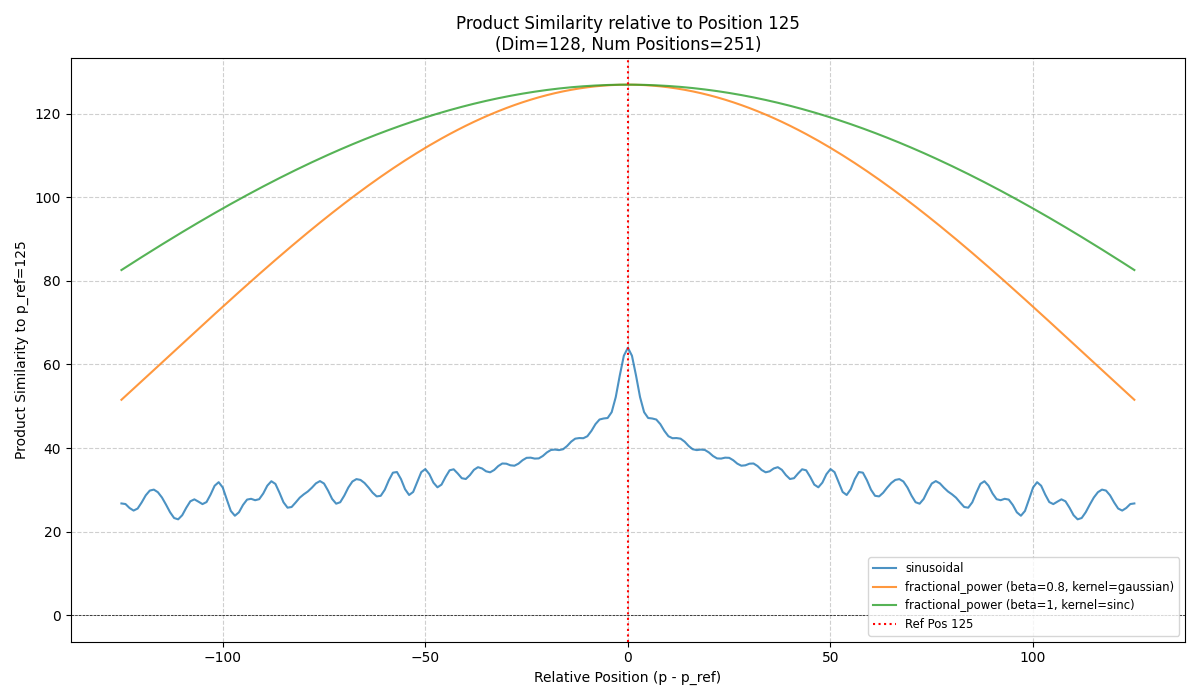
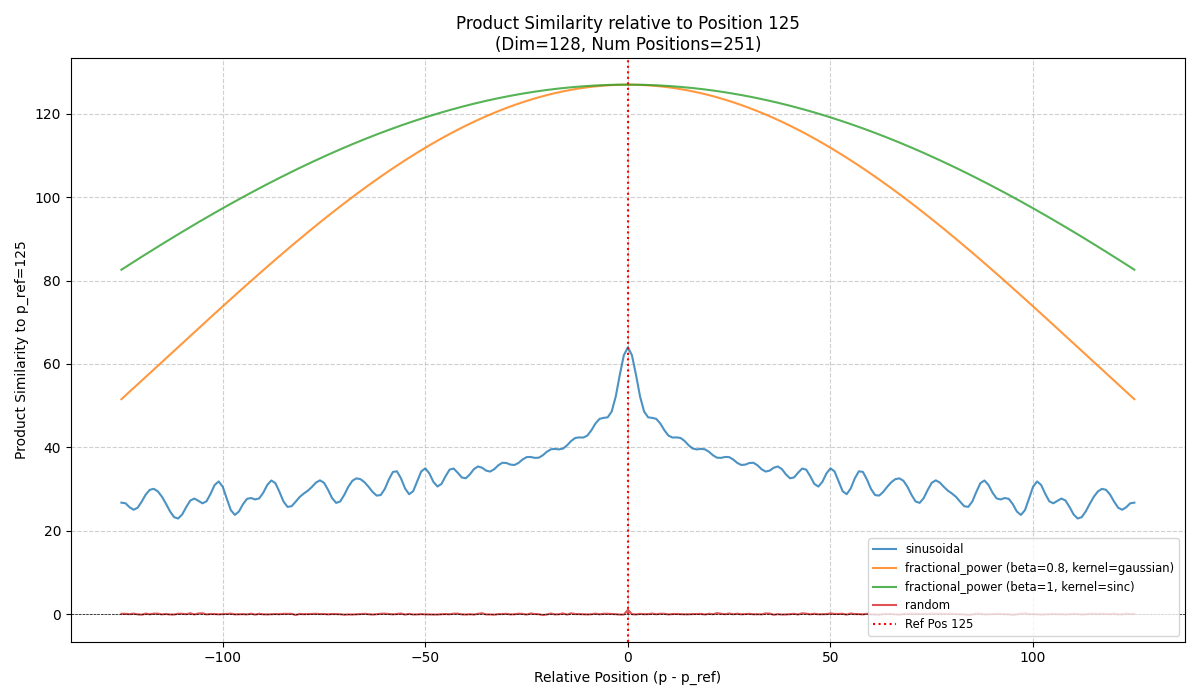
plots

diff --git a/src/experiments/positional_encodings/similarity_visualization.py b/src/experiments/positional_encodings/similarity_visualization.py
@@ -207,7 +207,7 @@ if __name__ == "__main__":
         "Sinusoidal": {"type": "sinusoidal"},
         "Fractional Power (β=0.8, Gauss)": {"type": "fractional_power", "params": {"beta": 0.8, "kernel": "gaussian"}},
         "Fractional Power (β=1, Sinc)": {"type": "fractional_power", "params": {"beta": 1, "kernel": "sinc"}},
-        # "Random": {"type": "random"},
+        "Random": {"type": "random"},
         # "Split Sinusoidal": {"type": "split_sinusoidal"} # Uncomment if available
     }
 
